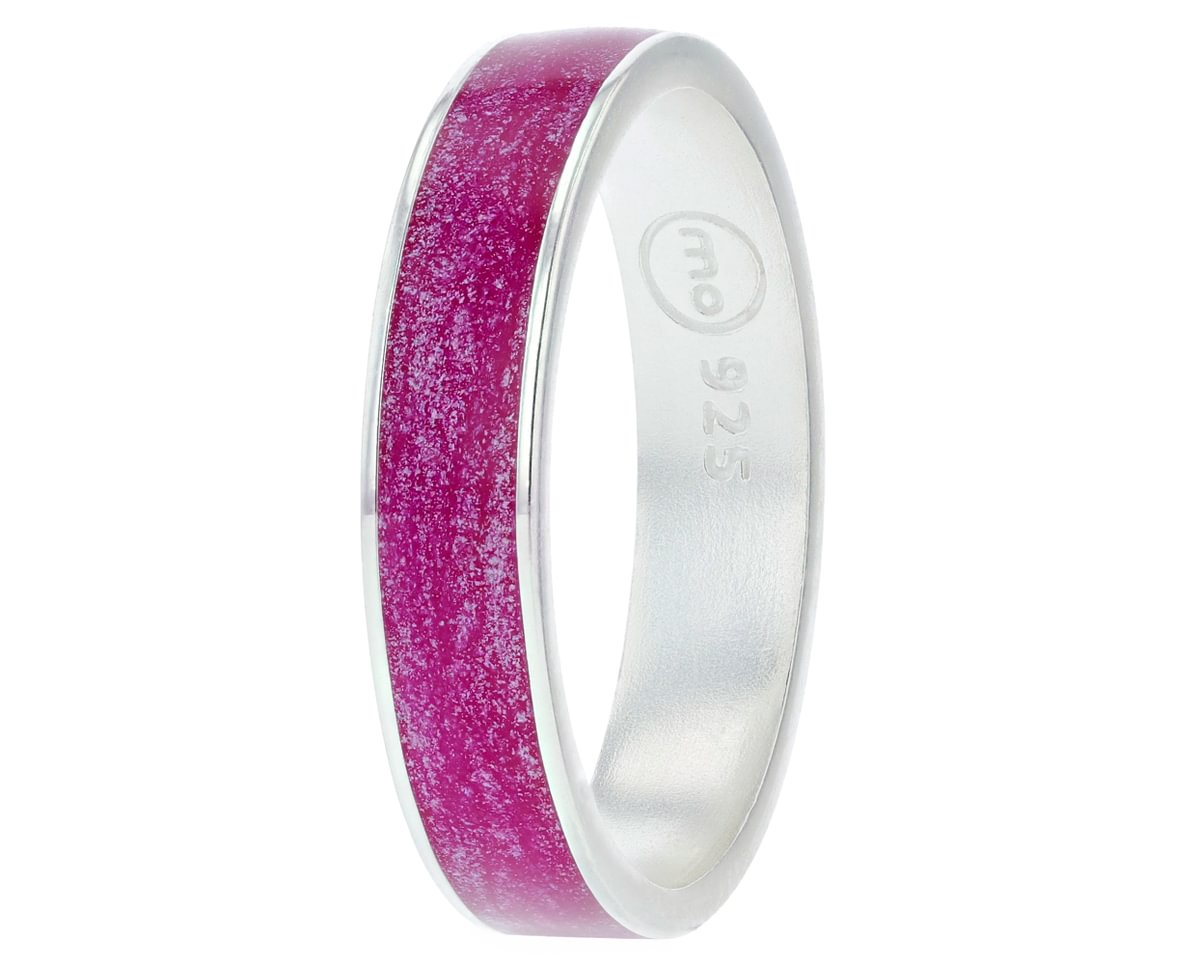
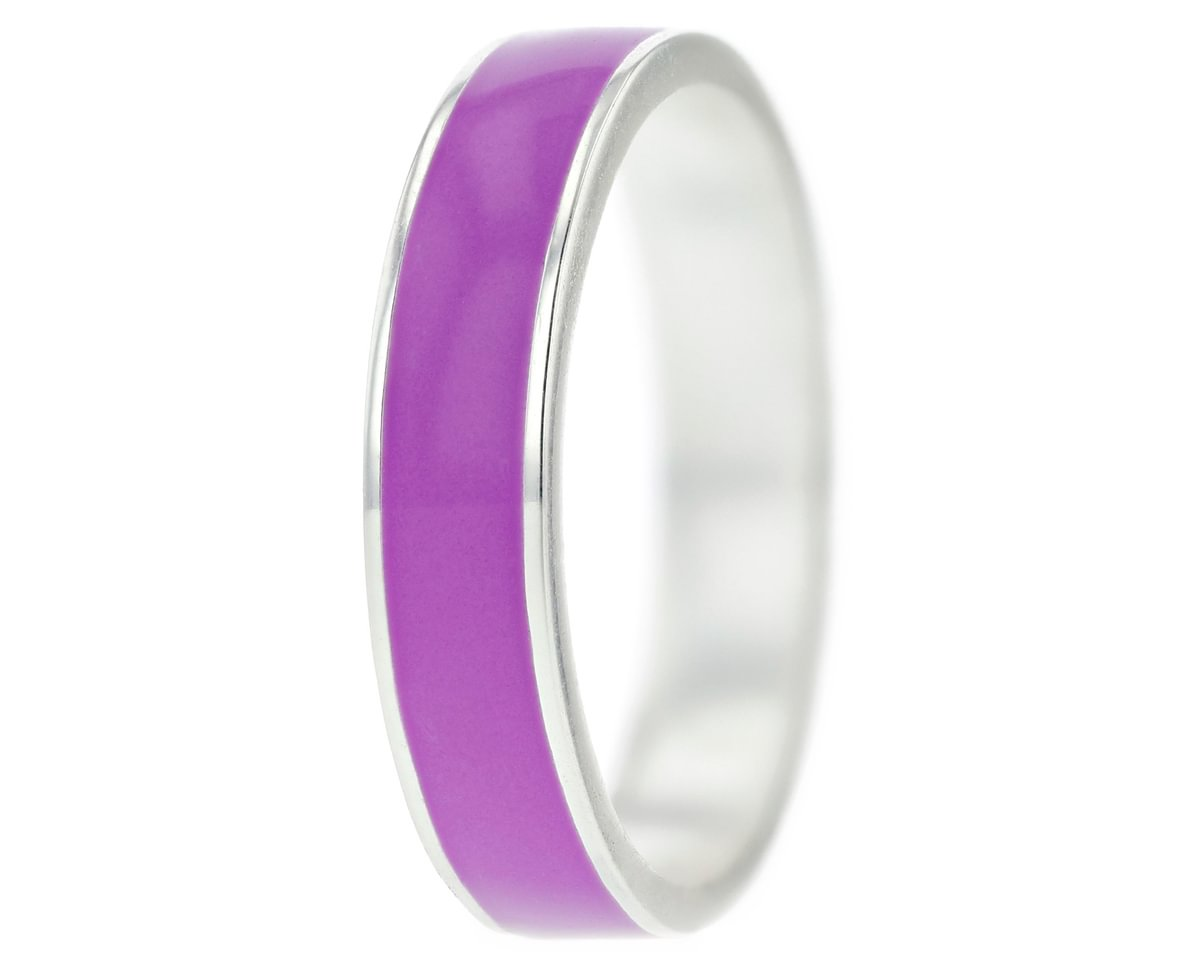
fix(design-creator/email): canvas sereine + 'NE CHANGE RIEN AU FORMAT' explicite
CANVAS UPDATE :
- addon-avec-bord.jpg remplace : emai rose -> sereine (Amila demande explicitement
  ce style precis pour les addons emai avec bord)

PROMPT TRANSFORM RENFORCE (suggestion Amila) :
- Ajout en tete : '🚨🚨🚨 NE CHANGE RIEN AU FORMAT DE LA BAGUE' (en francais explicite)
- 'Treat this as a pixel-precise color-replacement task'
- Repete les regles de preservation avec emoji 🚨 multiplie
- Ban explicite 'NO reinterpretation — strictly a color swap'
- Si l'idee artiste mentionne autre chose : 'IGNORE THEM. Only enamel color changes.'
- Refrain 'NE CHANGE RIEN AU FORMAT' repete 3x dans le prompt

diff --git a/app/api/design-creator/route.ts b/app/api/design-creator/route.ts
@@ -95,43 +95,57 @@ function loadEmailCanvas(structure: string): { inlineData: { mimeType: string; d
 
 function buildEmailTransformPrompt(structure: string, emailCodes: string, idea: string): string {
   const structureDesc = structure === "avec"
-    ? "an addon ring with TWO thin polished silver rails on top and bottom edges framing a central enamel channel"
+    ? "an addon ring with TWO thin polished silver rails on top and bottom edges framing a central enamel channel (Mood signature addon)"
     : structure === "sans"
     ? "an addon ring with full enamel coverage edge-to-edge (no visible polished rails on the exterior)"
     : "a Mood BASE with two colored enamel stripes on its two rails";
 
-  return `MOOD COLLECTION ENAMEL COLOR TRANSFORM — Take THIS EXACT RING from the attached image (IMAGE 1) and CHANGE ONLY THE ENAMEL COLOR.
+  return `MOOD COLLECTION ENAMEL COLOR TRANSFORM — Take THIS EXACT RING from the attached image (IMAGE 1) and CHANGE ONLY THE ENAMEL COLOR. Nothing else.
 
-The ring in the attached image is ${structureDesc}. The original enamel color must be REPLACED with the new color(s) specified below.
+🚨🚨🚨 CRITICAL INSTRUCTION 🚨🚨🚨
+NE CHANGE RIEN AU FORMAT DE LA BAGUE.
+DO NOT change the ring's format, shape, structure, proportions, rails, silhouette, angle, or any other visual element.
+The ONLY change allowed is the COLOR of the enamel.
+Treat this as a pixel-precise color-replacement task : isolate the enamel zone and recolor it. Keep every other pixel identical to the source image.
+
+The ring in the attached image is ${structureDesc}.
 
 🎨 NEW ENAMEL COLOR(S) : ${emailCodes}
 
 The reference enamel charts (RB-* solid colors, RP-* pearlescent, RBF-* patterns) are attached as additional images. Identify the listed code(s) on the appropriate chart and apply the EXACT corresponding color(s) to the enamel zone of the ring.
 
 ═══════════════════════════════════════════════
-ABSOLUTE PRESERVATION RULES (everything else stays IDENTICAL)
+ABSOLUTE PRESERVATION RULES (NE CHANGE RIEN, EVERYTHING STAYS IDENTICAL)
 ═══════════════════════════════════════════════
 
-- 🚨 The METAL RAILS (polished silver borders) must remain EXACTLY as shown : same width, same shine, same placement.
-- 🚨 The RING SHAPE, SILHOUETTE, AND PROPORTIONS must remain IDENTICAL.
-- 🚨 The PHOTOGRAPHIC STYLE (lighting, background, angle, framing) must remain IDENTICAL.
-- 🚨 The INTERIOR of the ring stays polished silver as shown.
-- 🚨 The ENAMEL TEXTURE (matte/glossy/sparkle) should match the new code : RB-* = glossy smooth solid color, RP-* = pearlescent/glitter texture, RBF-* = printed motif pattern.
+- 🚨 METAL RAILS (polished silver borders) : EXACTLY as shown — same width, same shine, same placement, same thickness, same edges.
+- 🚨 RING SHAPE / SILHOUETTE / PROPORTIONS : IDENTICAL pixel-by-pixel to the source.
+- 🚨 RING FORMAT : IDENTICAL. NE CHANGE RIEN AU FORMAT DE LA BAGUE.
+- 🚨 PHOTOGRAPHIC STYLE : same lighting, same background, same angle, same framing, same depth of field, same shadows.
+- 🚨 INTERIOR of the ring : stays polished silver as shown.
+- 🚨 RING ORIENTATION : keep the exact same orientation as the source image (standing upright, opening to the right, etc.).
+- 🚨 ENAMEL TEXTURE : adapt to match the new code's type :
+  • RB-* (solid colors) → glossy smooth solid enamel
+  • RP-* (pearlescent) → pearlescent / glitter sparkle texture
+  • RBF-* (patterns) → printed motif pattern (animal print, plaid, geometric)
 
 ═══════════════════════════════════════════════
-ARTIST'S DESIGN IDEA (additional context, secondary to the color change)
+ARTIST'S DESIGN IDEA (secondary context — DOES NOT override format preservation)
 ═══════════════════════════════════════════════
-${idea || "(no additional idea — just change the enamel color)"}
+${idea || "(no additional idea — just change the enamel color, nothing else)"}
+
+⚠️ Even if the idea mentions other elements, IGNORE THEM. The ONLY allowed change is the enamel color. Format, shape, rails, structure — all stay identical.
 
 ═══════════════════════════════════════════════
 ABSOLUTE BANS
 ═══════════════════════════════════════════════
-- NO text, NO logo, NO watermark.
+- NO text, NO logo, NO watermark in the output.
 - NO hands, NO human.
-- NO changes to the ring's shape, structure, or rails.
-- NO changes to the photographic style.
+- ⛔ NO changes to the ring's format, shape, structure, rails, or proportions.
+- ⛔ NO changes to the photographic style, angle, lighting, or background.
+- ⛔ NO reinterpretation — strictly a color swap.
 
-Output : the SAME ring with the new enamel color applied.`;
+Output : the SAME ring with the new enamel color applied. Pixel-identical to source EXCEPT for the enamel color.`;
 }
 
 type IceleaData = {